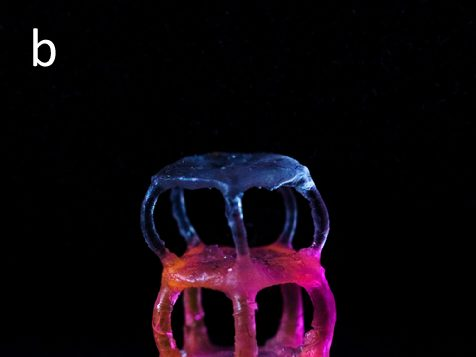
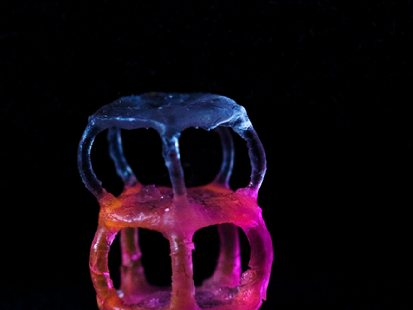
Tighten gallery crops; card images fill card width

Changed region(s): [[0.1743, 0.2903, 0.7264, 1.0], [0.0581, 0.0581, 0.1162, 0.2032]]

diff --git a/assets/css/site.css b/assets/css/site.css
@@ -197,7 +197,7 @@ img { max-width: 100%; height: auto; display: block; }
 .card--c2 { border-top-color: var(--teal); }
 .card--c3 { border-top-color: var(--navy-3); }
 .card--c4 { border-top-color: var(--navy); }
-.card__img { width: calc(100% + 2 * clamp(1.2rem, 2.2vw, 1.6rem)); margin: calc(-1 * clamp(1.2rem, 2.2vw, 1.6rem)) calc(-1 * clamp(1.2rem, 2.2vw, 1.6rem)) 1.1rem; aspect-ratio: 16 / 9; object-fit: cover; border-radius: var(--radius) var(--radius) 0 0; border-bottom: 1px solid var(--line); }
+.card__img { max-width: none; width: calc(100% + 2 * clamp(1.2rem, 2.2vw, 1.6rem)); margin: calc(-1 * clamp(1.2rem, 2.2vw, 1.6rem)) calc(-1 * clamp(1.2rem, 2.2vw, 1.6rem)) 1.1rem; aspect-ratio: 16 / 9; object-fit: cover; border-radius: var(--radius) var(--radius) 0 0; border-bottom: 1px solid var(--line); }
 
 .tag-list { display: flex; flex-wrap: wrap; gap: .35rem; margin-top: 1rem; }
 .tag { font-size: .72rem; font-weight: 600; padding: .22rem .6rem; border-radius: 999px; background: var(--bg-alt); border: 1px solid var(--line); color: var(--muted); }
